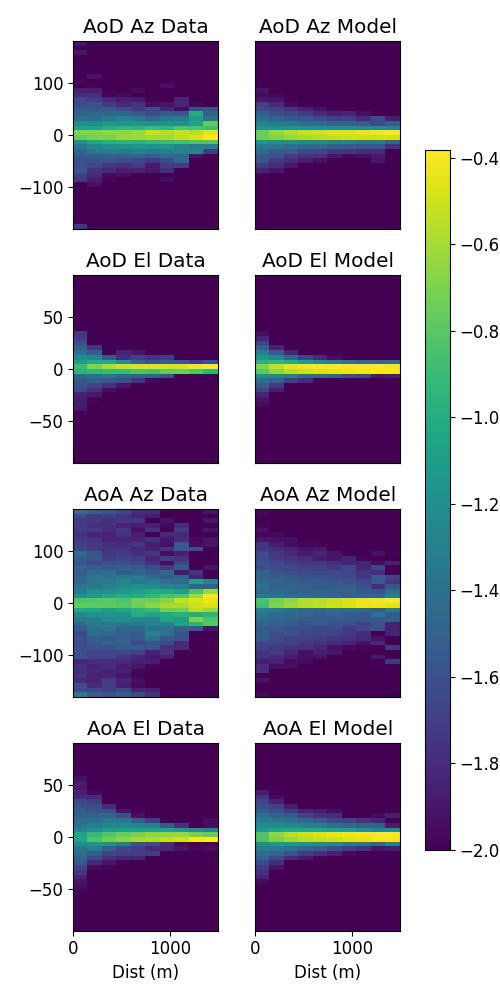
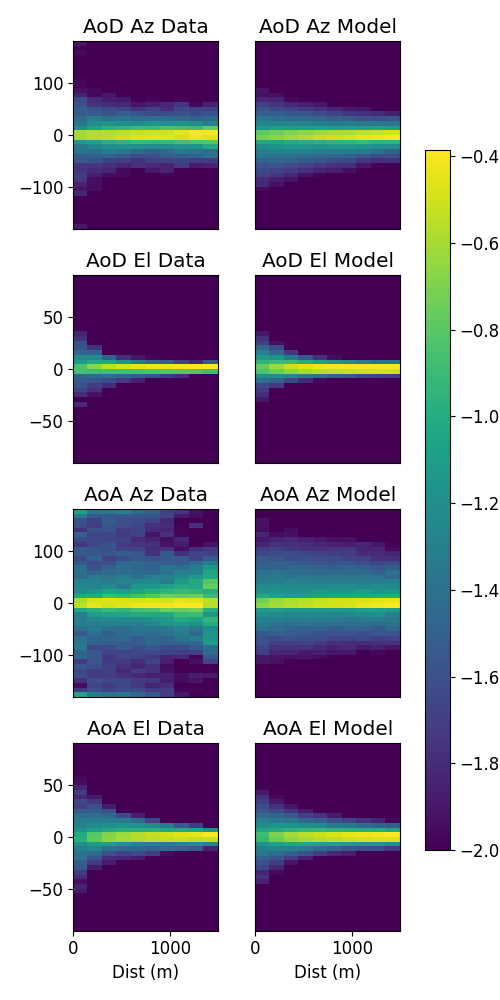
update plots

diff --git a/projects/uav_nn/train_mod.py b/projects/uav_nn/train_mod.py
@@ -47,7 +47,7 @@ parser.add_argument('--nepochs_link',action='store',default=10,type=int,\
     help='number of epochs for training the link model')
 parser.add_argument('--lr_link',action='store',default=1e-3,type=float,\
     help='learning rate for the link model')   
-parser.add_argument('--nepochs_path',action='store',default=5000,type=int,\
+parser.add_argument('--nepochs_path',action='store',default=10000,type=int,\
     help='number of epochs for training the path model')
 parser.add_argument('--lr_path',action='store',default=1e-4,type=float,\
     help='learning rate for the path model')     
@@ -62,7 +62,7 @@ parser.add_argument('--nunits_dec',action='store',nargs='+',\
     default=[80,200],type=int,\
     help='num hidden units for the decoder')    
 parser.add_argument('--nunits_link',action='store',nargs='+',\
-    default=[50,25],type=int,\
+    default=[25,10],type=int,\
     help='num hidden units for the link state predictor')        
 parser.add_argument('--model_dir',action='store',\
     default= '../../models/uav_beijing', help='directory to store models')
@@ -126,6 +126,7 @@ if batch_ind >= 0:
 if batch_ind >= 0:
     print('batch_ind=%d' % batch_ind)
 print('model_dir= %s' % model_dir)
+print('nunits_link=%s' % str(nunits_link))
 print('nunits_enc=%s' % str(nunits_enc))
 print('nunits_dec=%s' % str(nunits_dec))
 print('lr_path=%12.4e' % lr_path)

diff --git a/projects/uav_nn/plot_angle_dist.py b/projects/uav_nn/plot_angle_dist.py
@@ -31,7 +31,7 @@ Parse arguments from command line
 parser = argparse.ArgumentParser(description='Plots the omni directional path loss CDF')
 parser.add_argument(\
     '--plot_dir',action='store',\
-    default='plots', help='directory for the output plots')    
+    default='../../plots', help='directory for the output plots')    
 parser.add_argument(\
     '--plot_fn',action='store',\
     default='angle_dist.png', help='plot file name')        
@@ -186,11 +186,4 @@ if 1:
     # Save the figure
     plot_path = os.path.join(plot_dir, plot_fn)
     plt.savefig(plot_path)
-    
-    
-    
-
-
-    
-
-
+    print('saved fig:', plot_path)

diff --git a/projects/uav_nn/plot_snr.py b/projects/uav_nn/plot_snr.py
@@ -26,7 +26,7 @@ Parse arguments from command line
 parser = argparse.ArgumentParser(description='Plots the SNR distribution')    
 parser.add_argument(\
     '--plot_dir',action='store',\
-    default='plots', help='directory for the output plots')    
+    default='../../plots', help='directory for the output plots')    
 parser.add_argument(\
     '--plot_fn',action='store',\
     default='snr_coverage.png', help='plot file name')        
